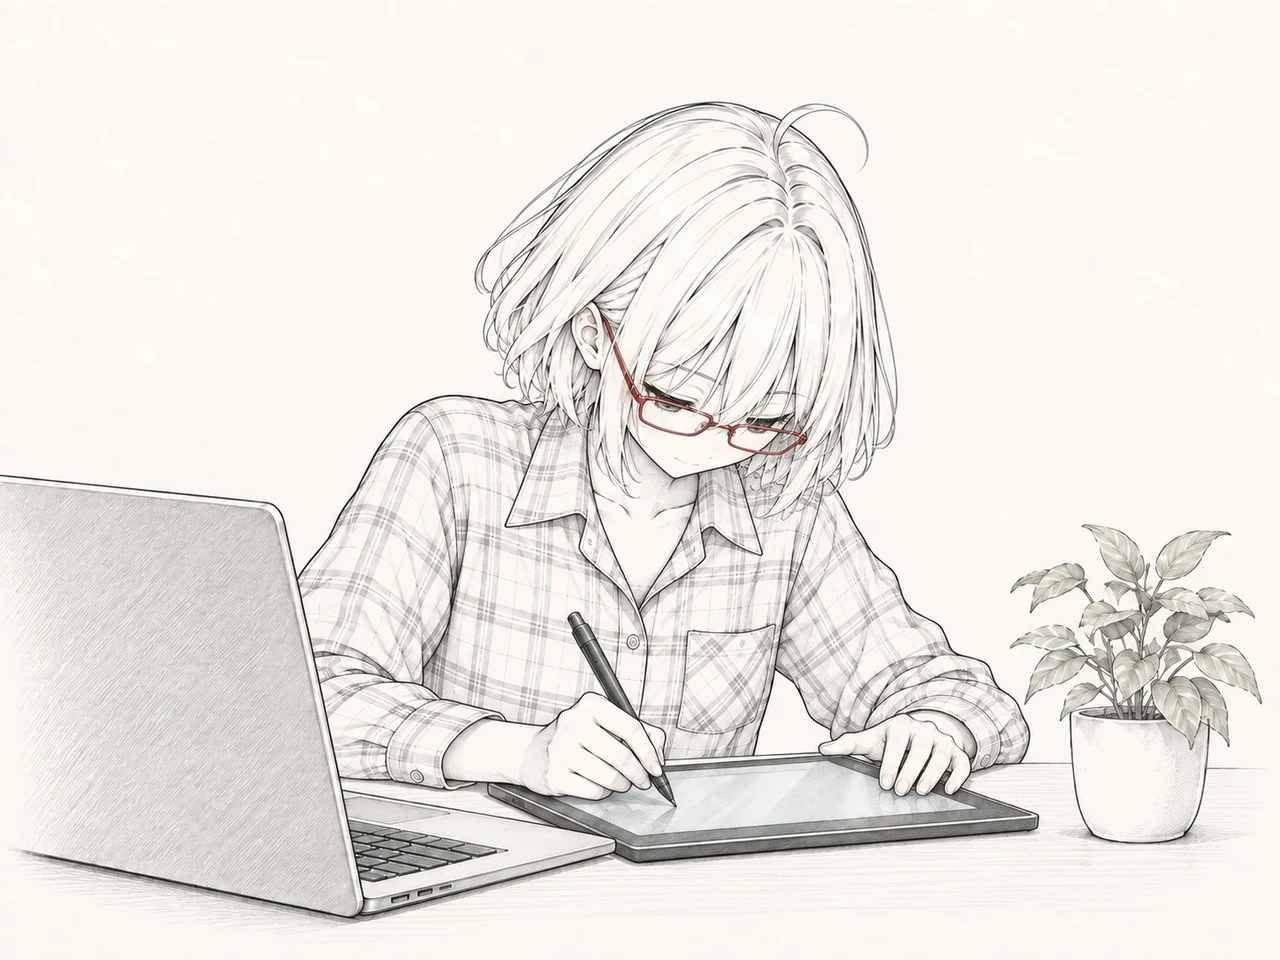
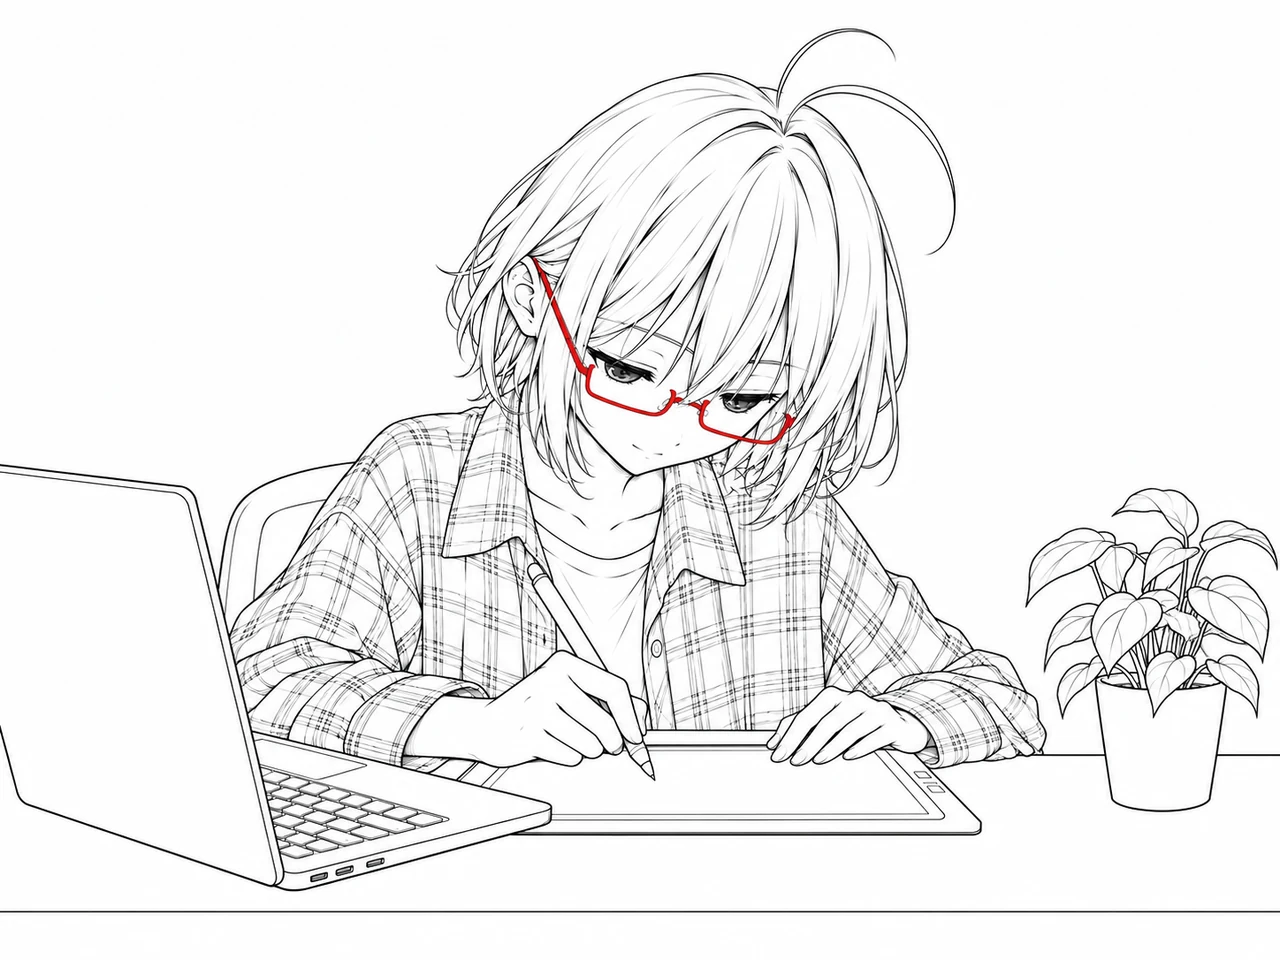
fix: correct lower half-rim glasses and restore line-art hero

diff --git a/docs/hero-lineart-correction.md b/docs/hero-lineart-correction.md
@@ -1,0 +1,29 @@
+# Hero 半框眼镜与纯线稿修正 · 2026-09-16
+
+## 当前结果
+
+本地采用 J：红色下半框，上方敞开；电脑、键盘、平板、手写笔及植物为线条与留白。已逐图放大核对三视图眼镜，不以“红色矩形”作为身份判断。D/E/F/G/H整图的通过/采用结论撤回；此前功能验收属于历史版本。
+
+母版：art-work/hero/candidate-j.png；正式网页导出：assets/images/hero-desk-640.webp、hero-desk-1280.webp。原始工具输出保留，使用内置出图，无API回退或程序重画。参考特写裁切只为看图与提示，网页导出只等比缩小。
+
+## 实际过程与额度
+
+- A–D：此前4次出图，D低头书写，但镜框与涂色错误。
+- E：线稿改善，眼镜仍错；F/G重复整图编辑仍残留上沿线。
+- H-face：局部特写成功；H回填完整图又生成上沿线，未采用。
+- I第一次调用额度失败，未得到图；额度恢复后从正确特写向外扩展得到I，眼镜正确但头顶被裁。
+- J：扩展I边缘，保留正确半框，完整头部及书桌。累计11次成功生成，另1次失败，超过原预估；不将失败稿伪报通过。
+
+## 验收与发布边界
+
+四种1440/390浅深局部截图与检查放在 docs/evidence/hero-lineart-j/；放大查看两片镜片上方均无连接框线。设备不再有色块、灰面涂抹。画面保持低头看平板；手机角色和红色下缘可辨。旧E截图仅布局检查，不能代表美术合格。
+
+本轮只接入本地Hero。当前分支还含其他任务的本地阅读/菜单增强，因此不推送或触发整站部署，不移动coursework-baseline标签。用户看到的线上版本仍是旧D。
+
+## I 提示词（正确特写向外扩展）
+
+Zoom out / extend this corrected face close-up into a 4:3 landscape desk illustration. Preserve EXACT glasses geometry from the reference: red OPEN-TOP squared U-shaped LOWER HALF rims. The upper edges have NO line, no transparent lens edge outline, no red or gray top segment. Do not close either U into a rectangle. Keep red temples and nose bridge, short light bob, ahoge, downward gaze. Seated character in plaid shirt writing with a digital stylus on a tablet; substantial open laptop with keyboard at left, single small leafy plant at right. All upper body and both hands visible. Head has breathing room and face large enough for glasses to read. Character looks down toward stylus tip contacting tablet. Fine manga line-art ONLY on white: thin contours, white interiors in laptop, keycaps, tablet screen and bezel, stylus barrel, plant leaves, clothes. Plaid drawn using thin intersecting lines. No gray filled regions, painted shading, smudges, gradients, dense hatch fields or colored objects. ONLY red marks are lower eyeglass rims/temples/bridge. Do not add text, logo, watermark, paper notebook. Keep the reference face and its open-top glasses, extend around it; do not redesign glasses.
+
+## J 最终提示词（补足构图边缘）
+
+Outpaint this exact illustration to a slightly wider 4:3 desk composition. Pull the camera back about 20%, extending the canvas content around all sides so the ENTIRE head, ahoge and hair have clear 6% white headroom, laptop is fully legible at left and plant pot at right is contained. Keep the existing image content and facial details unchanged, especially the correct red OPEN-TOP LOWER HALF eyeglass rims: the upper edges are absent, never draw a new line across the top of either lens. Preserve face, downward gaze, hand pose, stylus touching tablet, plaid linework and desk setup. Only add the missing peripheral head/desk/device/plant contours needed for the wider framing. Same clean thin black manga contour art on white; devices and plant white inside, no shading, gray fills, color or textures. Only glasses rims/temples/bridge red. No text, no new objects, no eye contact, no redesigned glasses. One complete 4:3 landscape illustration.

diff --git a/docs/art-direction.md b/docs/art-direction.md
@@ -4,17 +4,23 @@
 
 ## 参考与Brief
 
-角色三视图锁定短发、呆毛、红矩形眼镜、格纹衬衫；网页辅助参考2仅作线稿、纸面和疏密参考。目标为4:3书桌独立插画，非网页截图；笔记本电脑是主要工作设备，书写使用平板与手写笔，人物视线朝向笔尖，一株植物；无文字/Logo/水印/UI。作者的专业与使用习惯来自用户明确说明。
+**当前修正要求：**重新对照三视图，红色下半框、上缘无红框；设备与物件仅轮廓线/少量疏排线，内部留白，禁止涂色和灰面。当前采用 J，具体问题、参考与完整提示词见 [线稿修正记录](hero-lineart-correction.md)。下方 D 为已替换历史稿，其“最终采用”结论已失效。
+
+角色三视图锁定短发、呆毛、红色下半框眼镜、格纹衬衫；网页辅助参考2仅作线稿、纸面和疏密参考。目标为4:3书桌独立插画，非网页截图；笔记本电脑是主要工作设备，书写使用平板与手写笔，人物视线朝向笔尖，一株植物；无文字/Logo/水印/UI。作者的专业与使用习惯来自用户明确说明。
 
 ## 候选
 
 - A：略偏斜角书桌，头部接近上边缘、植物被截，人物清楚。
 - B：历史选稿。纸质笔记和看镜头姿态不符合用户实际习惯，已撤销最终采用状态。
 - C：放大电脑，将纸本改为平板与数字手写笔；眼睛仍朝向观众，未通过动作一致性检查。
-- D：在 C 上定向修改头部与目光，低头看向平板书写区域。保留电脑、平板、植物、身份与纸面风格；最终采用。
-- 共四次调用（两次构图、两次针对性修订）。不再扩大候选。工程只做4:3等比缩小及WebP编码，无反色或镜像。
+- D：修正头部与目光；后经用户指出眼镜与涂色偏差，撤回最终采用。
+- E/F/G：设备线稿已改善，但镜片上沿仍有残线，未通过。
+- H-face：局部特写成功校正开口下半框；H整图回填时再次失真，未通过。
+- I：从正确特写扩展场景，半框正确，但头顶裁切。
+- J：扩展I的画面边缘，保留开口下半框和设备纯线稿，头部完整。当前本地采用，未发布。
+- 累计11次成功出图，另1次额度限制失败。后七次用于纠正眼镜与线稿，超出最初预估；失败稿不得算通过。工程仅作参考局部裁切、等比WebP导出，不用程序绘制镜框。
 
-原始输出复制于本地 art-work/hero/candidate-a.png 至 candidate-d.png（不发布，不入源码版本）；工具原始文件保留。D 的正式640/1280 WebP已入assets/images，B 的旧导出留在 Git 历史，可从干净源码复现网站，不依赖本地母版。
+原始输出复制于本地 art-work/hero/candidate-a.png 至 candidate-j.png（含h-face）（不发布，不入源码版本）；工具原始文件保留。J 的正式640/1280 WebP已入assets/images，B/D旧导出留在Git历史，可从干净源码复现网站，不依赖本地母版。
 
 ## 网页导出
 

diff --git a/Change_log.md b/Change_log.md
@@ -1,5 +1,13 @@
 # Change Log
 
+## 2026-09-16 · Hero 二次纠错完成（J，仅本地）
+
+- 下方“采用E”记录过早：用户再次指出镜框错误；E/F/G及H整图均未通过，不发布。
+- 改用面部特写校正开口下半框，再向外扩展书桌与补足头顶，最终本地采用J。上缘没有闭合线，键盘/平板/笔杆/植物无涂色灰面。
+- 累计11次成功出图，另1次额度失败；如实保留超预期迭代记录和I/J提示词。当前导出44994/137542字节。
+- 已放大核对眼镜，1440/390浅深四种Hero检查与实际看图通过；证据在docs/evidence/hero-lineart-j/。
+- 仅提交本轮素材和文档，不推送当前分支，避免将其他任务的本地增强同时部署。线上D及coursework-baseline标签不变。
+
 ## 2026-09-16 · E04 复制与快捷菜单
 
 - 新增 `js/context-menu.js`：按 §15.1 仅在 `(hover: hover) and (pointer: fine)` 下启用；构建单层菜单（导航／页面动作／复制与只读状态三组，共 7 项，含内联 SVG 图标与中文文字），按 `clientX/clientY` 定位并夹到视口内 8px；点击外部、Esc、滚动、Resize、失焦时关闭，菜单自身滚动不关闭；键盘遵循 WAI-ARIA 菜单按钮模式（↑↓ 循环、Home/End、Enter/Space、Esc 归还焦点、Tab 关闭不困住焦点）；`input`／链接／媒体／选区／Shift／`[data-menu-exempt]` 保留原生菜单。

diff --git a/docs/visual-review.md b/docs/visual-review.md
@@ -1,5 +1,9 @@
 # 当前视觉验收：B/E 修订版
 
+## Hero 纠错 · 2026-09-16 · J本地复核通过，未发布
+
+用户指出D/E镜框错误及D设备涂色；撤回这两稿的当前美术通过结论。J经放大对照三视图，红色下半框呈开口U形，两片镜片上缘无连接框线；电脑、键帽、平板、笔杆和植物均以线条/留白表现。1440/390浅深四张Hero实际看图与占位检查通过，头部完整，低头书写姿态保留。新证据在evidence/hero-lineart-j/，不覆盖旧版本全站证据。详细失败/修正过程见hero-lineart-correction.md。其余功能及增强验收不在此次范围。
+
 ## VC0 修订 · 2026-09-16 · Passed
 
 用户补充电脑/平板工作习惯后重开检查。实际查看 C、D 原图与 docs/evidence/baseline/home-{1440,390}-{light,dark}.png 四张页面图，采用 D：短发/呆毛/红框眼镜/格纹身份保留；笔记本电脑为主要设备，平板与笔尖清楚；头部低垂，视线随书写区域，不再看镜头。桌面与手机完整显示设备和双手，标题与 CTA 层级清楚，深色保持画内暖纸。VC0 再次通过。

diff --git a/DESIGN_SPEC.md b/DESIGN_SPEC.md
@@ -10,6 +10,8 @@ minimal manga / comic / line art / editorial / paper。全站 70% minimal + 30% 
 
 2026-09-16 场景修订：作者为计算机专业学生；Hero 以笔记本电脑为主要工作设备，书写使用平板与手写笔。头部、眼睛朝向书写位置，禁止一边写一边看镜头的摆拍姿态。
 
+2026-09-16 身份/画法纠正：以三视图为准，眼镜是红色**下半框**，镜片上缘没有红框；不得只写“红色矩形眼镜”。插画使用轮廓线与少量疏排线，设备、键帽、平板边框与笔杆内部留白，不用灰面、涂抹、渐变或色块塑形。眼镜红线是插画的颜色例外；页面CSS纸色/淡蓝不等于允许给插画物件上色。
+
 ## 2. 参考与角色
 
 参考素材/五张 PNG 原样保留，不发布。角色三视图唯一身份依据：短发、呆毛、红框眼镜、格纹衬衫。允许新动作和表情，保持五官/头身/衣着一致；不得拉伸、镜像或擅改配色。网页参考用于构图/线稿；背景参考只提供留白与边缘组织。

diff --git a/README.md b/README.md
@@ -18,7 +18,7 @@
 |JavaScript|主题切换保存；标题/摘要/标签多词AND搜索；分类组合、数量、无结果与重置|
 |Git/Gitee|真实分阶段历史；main推送至Gitee，基线标签 coursework-baseline|
 |公开网站|Cloudflare Pages HTTPS；七页与资源和源提交逐文件核对|
-|美术|电脑旁低头用平板与手写笔书写；640/1280 WebP，四次内置出图后采用D|
+|美术|电脑旁低头用平板与手写笔书写；640/1280 WebP，当前本地采用J，红色下半框与设备纯线稿；线上仍是旧D|
 
 四篇文章标为示例，不冒充科研成果。作者的计算机专业与设备习惯来自本人说明。
 

diff --git a/docs/tasks/01-baseline/b02.md b/docs/tasks/01-baseline/b02.md
@@ -1,5 +1,7 @@
 # B02 — 美术基调与 Hero
 
+2026-09-16 后续纠错：用户指出D/E眼镜不符，下半框身份与设备纯线稿已在J修正。本地接入并通过四种尺寸/主题Hero定向复核；尚未推送/部署，旧baseline图仅历史。见 [修正记录](../../hero-lineart-correction.md)。
+
 - 状态：Passed
 - 来源：A00/A01、VC0
 - 输入与依赖：B01 内容密度；Plan.md、DESIGN_SPEC.md v1.1、冻结 DOM 契约。

diff --git a/docs/hero-prompts.md b/docs/hero-prompts.md
@@ -1,5 +1,7 @@
 # B02 内置出图提示词
 
+**当前本地采用 J**：D 被用户指出半框眼镜和线稿画法偏差，已替换。最终 I/J 的完整提示词见 [Hero线稿修正](hero-lineart-correction.md)。下方 A–D 仅保留实际生产历史，其旧“最终采用”标记不代表当前结论。
+
 ## Candidate D（最终采用，2026-09-16）
 
 输入：C 为编辑目标，角色三视图为身份依据。
